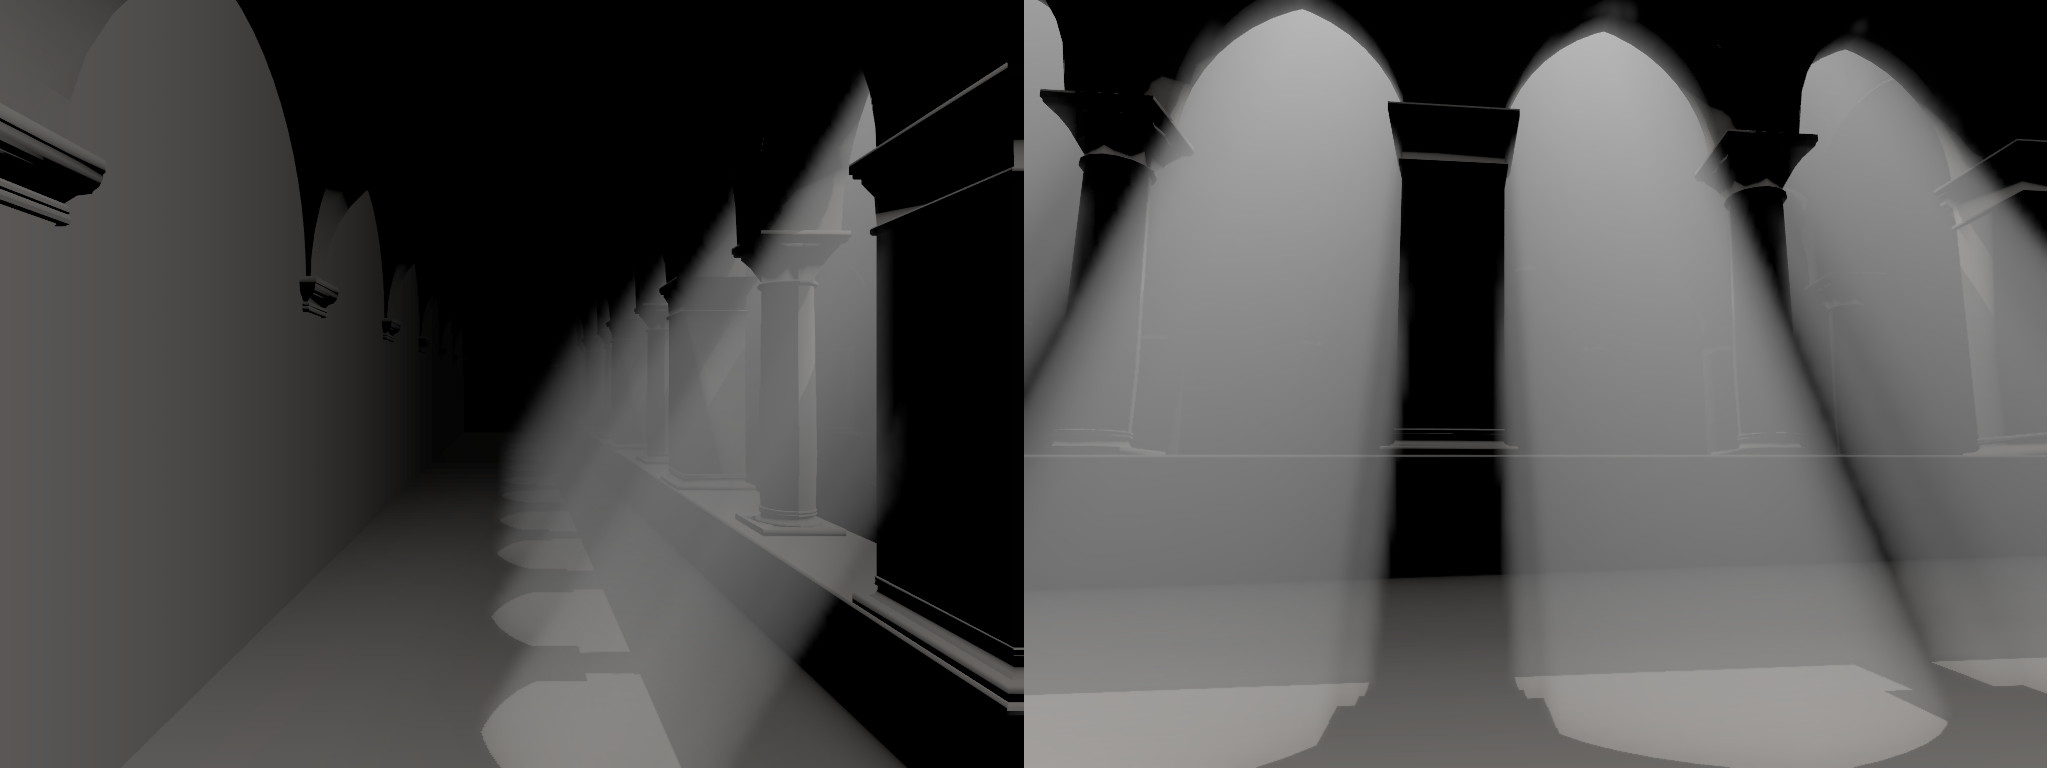
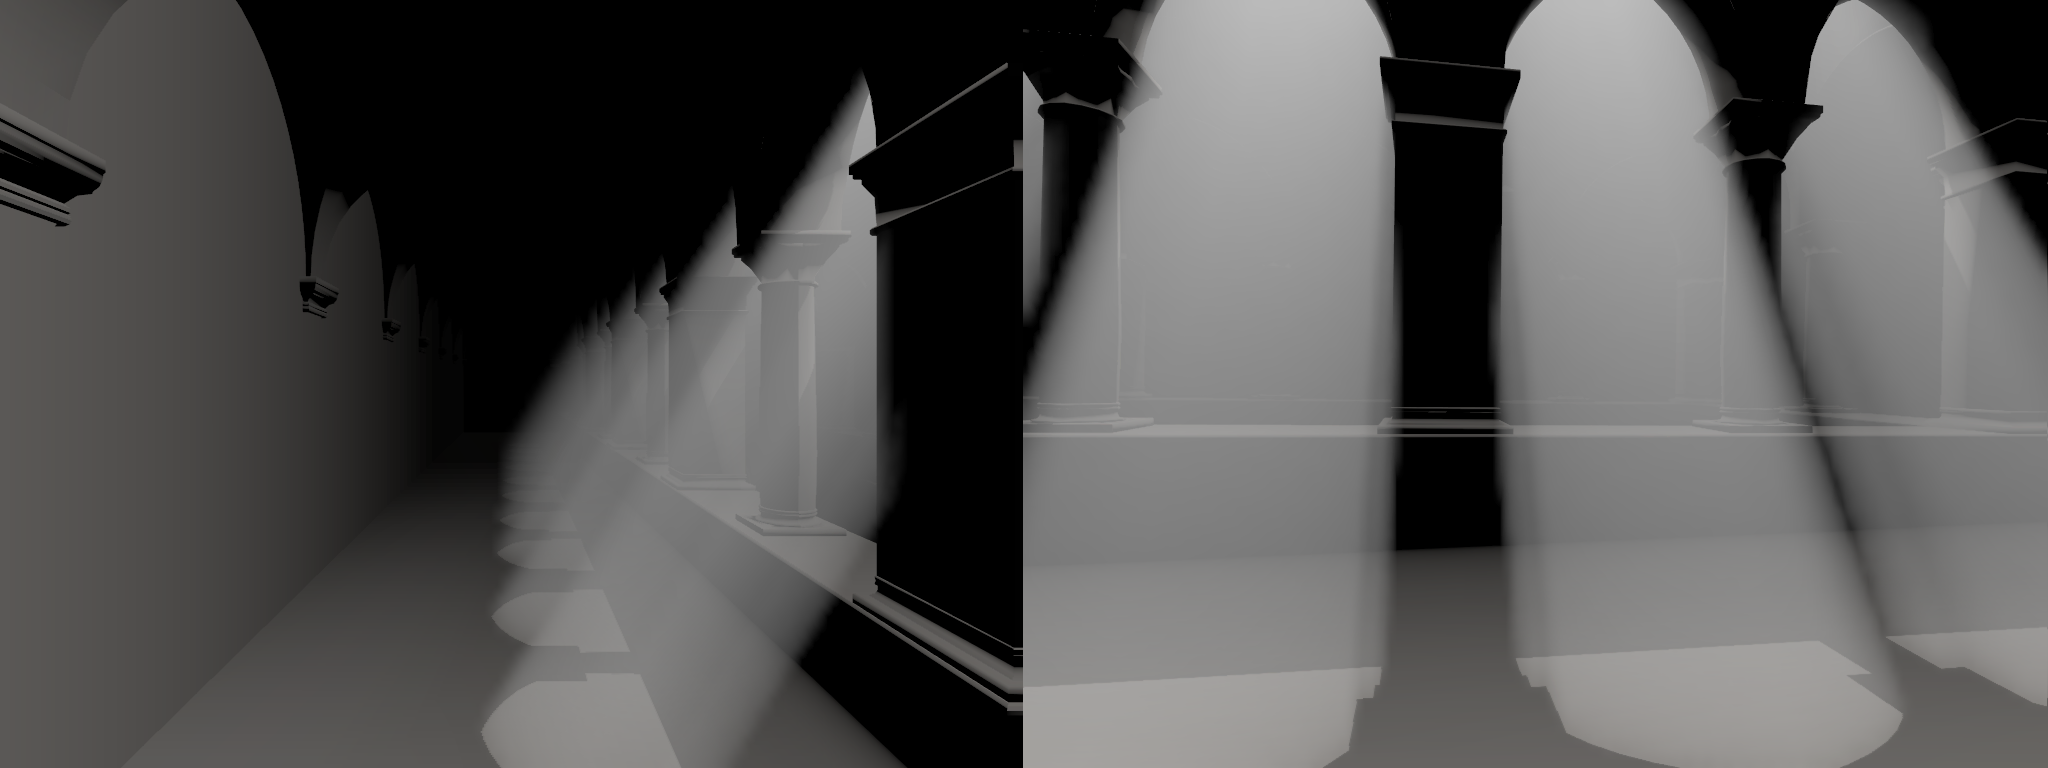
Correcting errors in the cumulative scattering formula

diff --git a/Source/RenderCore/Private/Scene/VolumetricFogSceneInfo.cpp b/Source/RenderCore/Private/Scene/VolumetricFogSceneInfo.cpp
@@ -152,15 +152,24 @@ namespace rendercore
 			return m_accumulatedVolume;
 		}
 
+		const agl::ShaderParameter& VolumetricFogParameter() const
+		{
+			return m_volumetricFogParameter;
+		}
+
 		AccumulateScatteringCS()
 		{
 			m_frustumVolume.Bind( GetShader()->ParameterMap(), "FrustumVolume" );
 			m_accumulatedVolume.Bind( GetShader()->ParameterMap(), "AccumulatedVolume" );
+
+			m_volumetricFogParameter.Bind( GetShader()->ParameterMap(), "VolumetricFogParameterBuffer" );
 		}
 
 	private:
 		agl::ShaderParameter m_frustumVolume;
 		agl::ShaderParameter m_accumulatedVolume;
+
+		agl::ShaderParameter m_volumetricFogParameter;
 	};
 
 	REGISTER_GLOBAL_SHADER( InscatteringCS, "./Assets/Shaders/VolumetricFog/CS_Inscattering.asset" );
@@ -315,6 +324,8 @@ namespace rendercore
 
 		BindResource( shaderBindings, accumulateScatteringCS.FrustumVolume(), FrustumVolume() );
 		BindResource( shaderBindings, accumulateScatteringCS.AccumulatedVolume(), AccumulatedVolume() );
+
+		BindResource( shaderBindings, accumulateScatteringCS.VolumetricFogParameter(), GetVolumetricFogParameter().Resource() );
 
 		const std::array<uint32, 3>& frustumGridSize = Proxy()->FrustumGridSize();
 		const uint32 threadGroupCount[2] = {

diff --git a/Source/RenderCore/Private/PassProcessor/VolumetricFogPassProcessor.cpp b/Source/RenderCore/Private/PassProcessor/VolumetricFogPassProcessor.cpp
@@ -15,7 +15,7 @@ namespace rendercore
     std::optional<DrawSnapshot> VolumetricFogDrawPassProcessor::Process( const PrimitiveSubMesh& subMesh )
     {
         StaticShaderSwitches switches = DrawVolumetricFogPS().GetSwitches();
-        switches.On( Name( "TricubicTextureSampling" ), 1);
+        switches.On( Name( "TricubicTextureSampling" ), 1 );
 
         PassShader passShader = {
             .m_vertexShader = FullScreenQuadVS().GetShader(),
